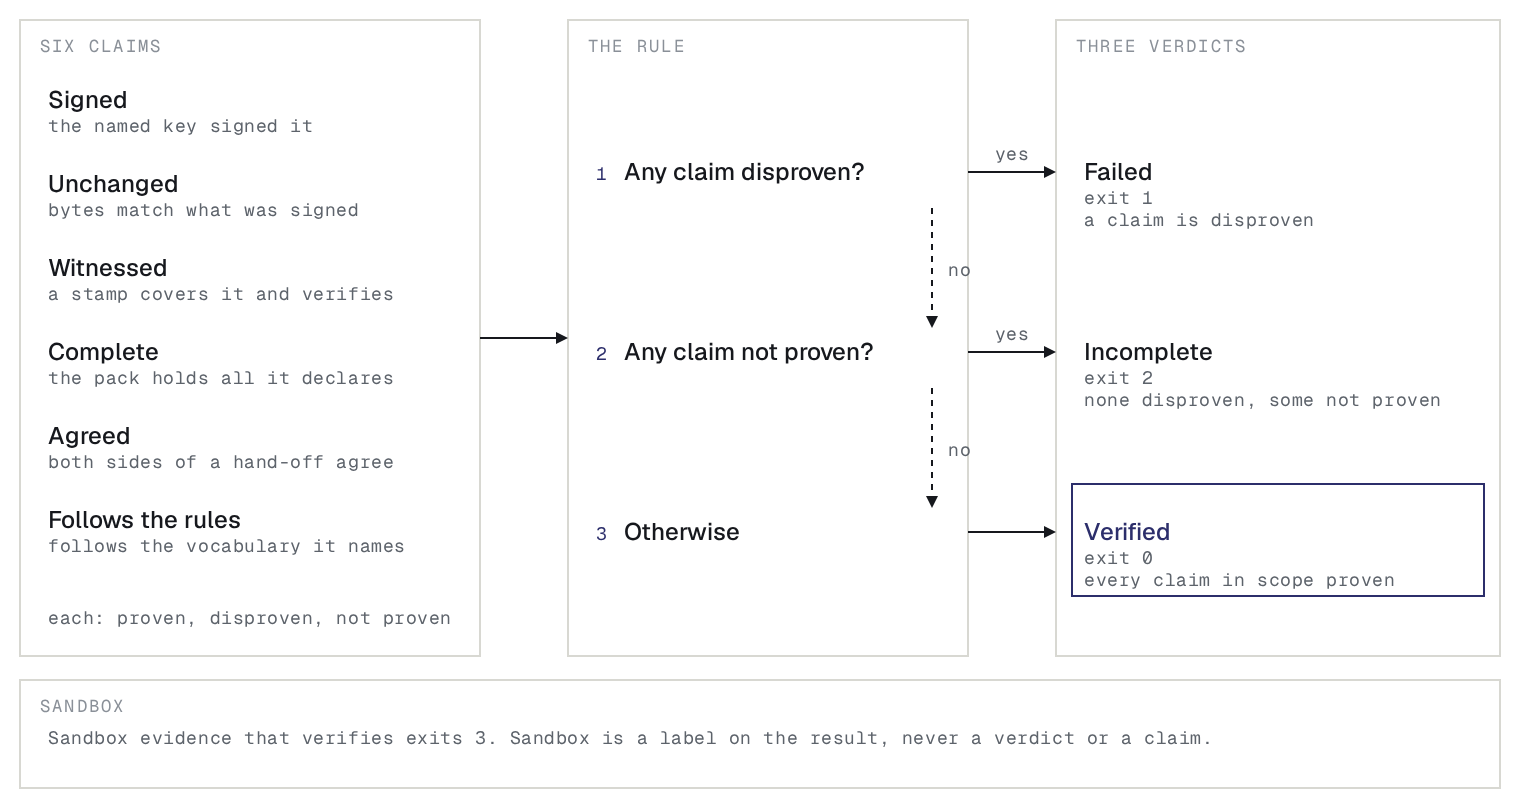
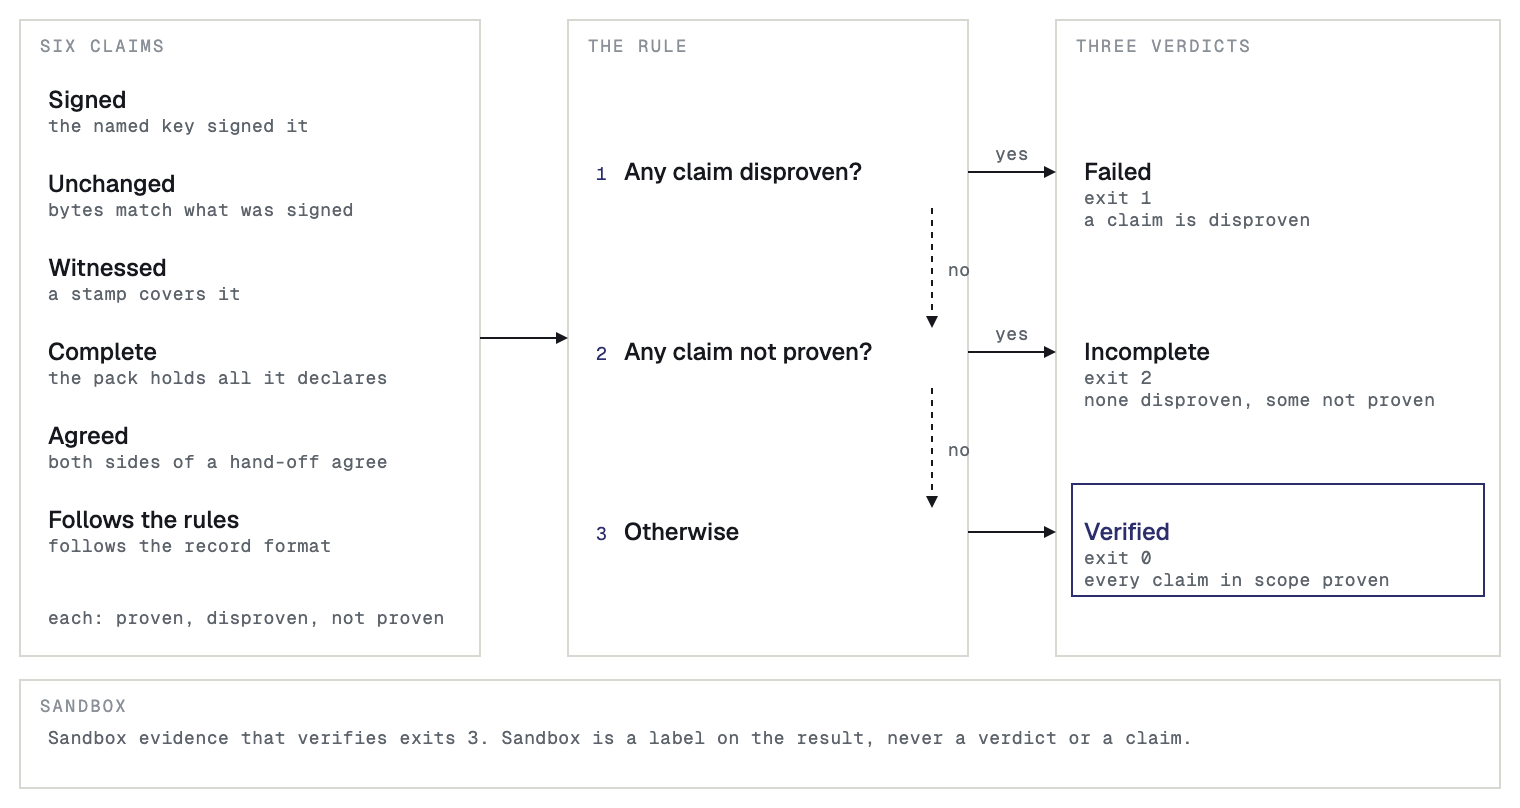
Fix round: witness wording, gateway truth, stamp wait, diagram wording, sample guard

diff --git a/images/diagrams/how-it-works.py b/images/diagrams/how-it-works.py
@@ -10,8 +10,8 @@ from lib import D
 ARIA = ("How Sanning works. Your agent and its adapter capture each step. The content goes to your own log "
         "store. Only signed hashes go to Sanning, which seals the records into a stamp on the public record "
         "at each interval. You build the evidence pack from Sanning's records and stamp proofs and your own "
-        "content, and hand it to the reviewer. The reviewer verifies it on their own machine against the "
-        "public record and does not need Sanning.")
+        "content, and hand it to the reviewer. The reviewer verifies it on their own machine and checks "
+        "the stamps on the public record, and does not need Sanning.")
 
 
 def build(dark=False):
@@ -52,7 +52,7 @@ def build(dark=False):
     d.text(358, 211, "stamp proofs")
 
     d.zone(400, 290, 240, 100, "The reviewer")
-    d.node(414, 336, "Verifies", ["on their own machine,", "against the public record"], num=4)
+    d.node(414, 336, "Verifies", ["on their own machine"], num=4)
     d.arrow([(226, 352), (400, 352)])
     d.text(313, 344, "hands over", anchor='middle')
     d.arrow([(640, 352), (730, 352), (730, 106)], dashed=True)

diff --git a/images/diagrams/case-life.py b/images/diagrams/case-life.py
@@ -5,7 +5,7 @@ from lib import D
 ARIA = ("The life of one case. Two agents work on one case over time. Every record in their three runs "
         "carries the case ID. A run ends with a closing record. At the end of each interval, Sanning "
         "seals the new records into a stamp on the public record. You build one evidence pack for the "
-        "case, from the records and your own content. The reviewer checks the pack offline, against the "
+        "case, from the records and your own content. The reviewer checks the pack on their own machine, checks the "
         "stamps on the public record, and reads the verdict.")
 
 
@@ -60,7 +60,7 @@ def build(dark=False):
     d.zone(570, 180, 180, 90, "The reviewer")
     d.accent_box(580, 200, 160, 52)
     d.text(592, 222, "Verdict", 'acc')
-    d.text(592, 236, "checked offline")
+    d.text(592, 236, "checked on their machine")
     d.arrow([(660, 106), (660, 180)])
     d.text(668, 148, "hand over")
     d.arrow([(570, 226), (520, 226)], dashed=True)

diff --git a/images/diagrams/claims-to-verdict.py b/images/diagrams/claims-to-verdict.py
@@ -15,10 +15,10 @@ def build(dark=False):
     d.zone(10, 10, 230, 318, "Six claims")
     claims = [("Signed", "the named key signed it"),
               ("Unchanged", "bytes match what was signed"),
-              ("Witnessed", "a stamp covers it and verifies"),
+              ("Witnessed", "a stamp covers it"),
               ("Complete", "the pack holds all it declares"),
               ("Agreed", "both sides of a hand-off agree"),
-              ("Follows the rules", "follows the vocabulary it names")]
+              ("Follows the rules", "follows the record format")]
     for i, (a, b) in enumerate(claims):
         d.node(24, 54 + i*42, a, [b])
     d.text(24, 312, "each: proven, disproven, not proven")

diff --git a/AGENTS.md b/AGENTS.md
@@ -14,7 +14,7 @@ The brand is defined once, in [`sanning-io/sanning-design-system`](https://githu
 - `docs.json` carries the brand through Mintlify's own configuration only: the colours, the page background, the Geist font, the wordmark, the favicons, and the share image. No custom CSS or JS on top of the framework.
 - The design system's README section [Using it for the docs (Mintlify)](https://github.com/sanning-io/sanning-design-system#using-it-for-the-docs-mintlify) says which semantic token feeds each colour in `docs.json`, and which files to copy. Follow it, and keep no second map here.
 - `logo/`, `favicon.svg`, `favicon-midnight.svg`, `og/`, and `fonts/` are copied verbatim from the design system's `assets/`. **Copied from design-system commit `b861b16`.** When tokens or assets change upstream, re-copy them here in the same PR that bumps this line.
-- Voice follows the design system's [`brand/voice.md`](https://github.com/sanning-io/sanning-design-system/blob/main/brand/voice.md): short true sentences, sentence case everywhere, buttons say exactly what happens. Never claim "safe", "compliant", "approved", "certified", or "audit-proof" — Sanning records integrity, authenticity, and provenance; the conclusion belongs to the customer's auditors. No hype words, no blockchain vocabulary ("anchored", "permanent", "independent" — never "on-chain", "web3", "trustless").
+- Voice follows the design system's [`brand/voice.md`](https://github.com/sanning-io/sanning-design-system/blob/main/brand/voice.md): short true sentences, sentence case everywhere, buttons say exactly what happens. Never claim "safe", "compliant", "approved", "certified", or "audit-proof" — Sanning records integrity, authenticity, and provenance; the conclusion belongs to the customer's auditors. No hype words. Use the approved words "anchored", "permanent" and "independent". Never use the banned blockchain words "on-chain", "web3", "trustless" or "crypto".
 - Technical values (code, hashes, timestamps, IDs) are always real-looking, never placeholders like `abc123`.
 
 ## Terminology
@@ -22,7 +22,7 @@ The brand is defined once, in [`sanning-io/sanning-design-system`](https://githu
 - The product's steps are **Capture, Sign, Anchor, Verify**, the same words as the website. They explain the product on the Introduction; they do not name sidebar groups. The write path is "the anchor front" at `/anchor`; never "Turbo" on a customer-facing surface.
 - The signing party is the **agent**, not the producer. Packages publish under the Sanning npm org (`@sanning/*`) and as `sanning-*` on PyPI.
 - The control plane is **not in the trust path**. Say so wherever issuance, roster, metering, or billing are described.
-- The two modes are **Sandbox** and **Live** in prose, and an **API key**, never a bare "key". The wire values (`sanning_test_`, `sanning_prod_`, `environment: "dev"` and `"production"`) appear in tables and reference, not in sentences. Every page is written for Live, with a Live API key. The [Quickstart](quickstart.mdx) and every guide carry one short callout near the top that says to use a Sandbox API key to test and links to [Test in the Sandbox](sandbox.mdx), the one page that explains the two modes. Never name a chain: say "the public record".
+- The two modes are **Sandbox** and **Live** in prose, and an **API key**, never a bare "key". The wire values (`sanning_test_`, `sanning_prod_`, `environment: "dev"` and `"production"`) appear in tables and reference. In a sentence, use one only where the reader must recognise it: a key prefix, or `environment: "production"` in an error they might meet. Every page is written for Live, with a Live API key. The [Quickstart](quickstart.mdx) and every guide carry one short callout near the top that says to use a Sandbox API key to test and links to [Test in the Sandbox](sandbox.mdx), the one page that explains the two modes. Never name a chain: say "the public record".
 - Say **evidence pack** for the file a reviewer gets, and "evidence" in titles, as the website and the console do. Say **verdict** for Verified, Failed or Incomplete, and **reviewer** for the person who checks evidence.
 - The docs are one path in four groups: Get started (Introduction, Quickstart, Test in the Sandbox), Record your agents (adapters), Evidence (build, verify), then Reference. A concept is a section on the page where a reader needs it, not a page of its own. Samples record through an adapter, never with `anchor()` calls placed through an agent's code.
 - Company: Sanning Inc. GitHub org: `sanning-io`. Production console: `console.sanning.io`.
